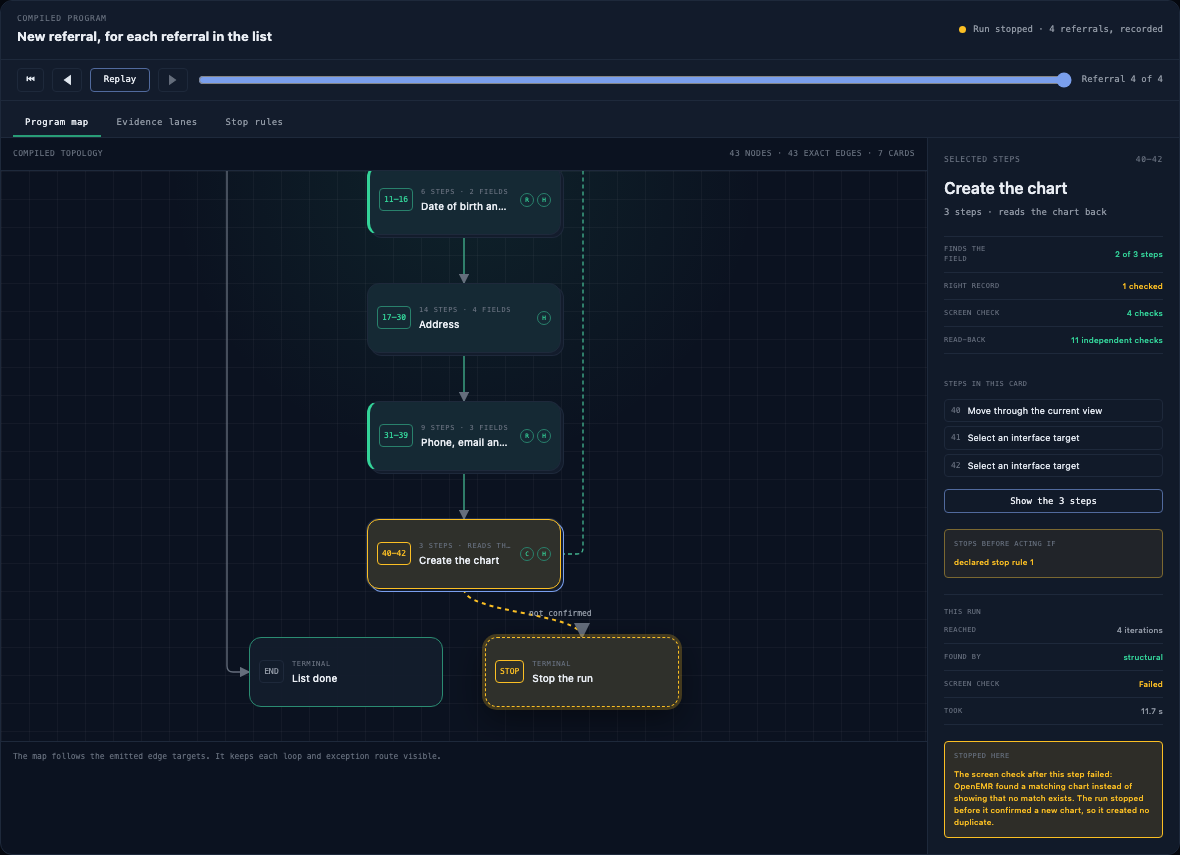
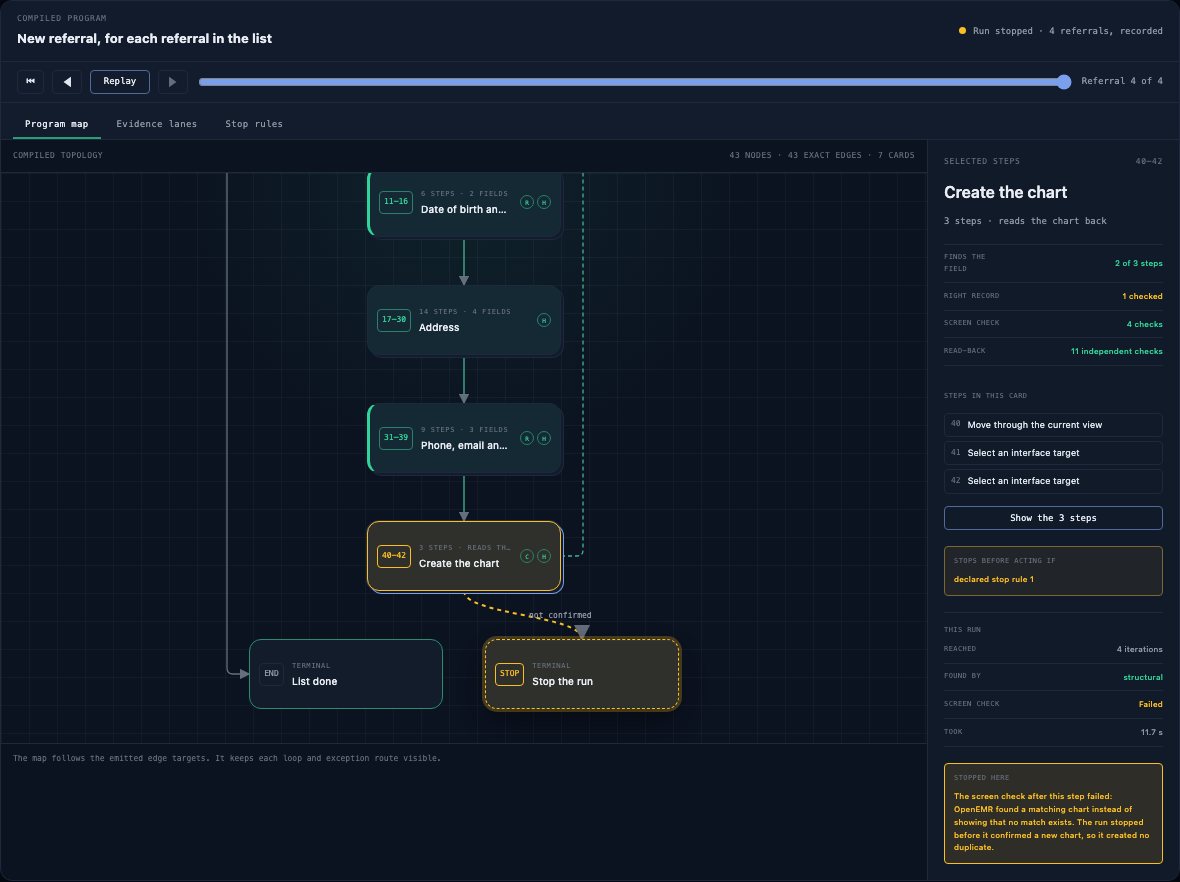
fix(program-graph): body line-height 1.6, matching Desktop, as --opg-line-height

diff --git a/packages/program-graph/src/styles.css b/packages/program-graph/src/styles.css
@@ -42,6 +42,7 @@
   --opg-fs-md: 16px;
   --opg-fw-medium: 500;
   --opg-fw-semibold: 600;
+  --opg-line-height: 1.6;
   --opg-motion-fast: 150ms;
   --opg-ease-out: cubic-bezier(0.2, 0.7, 0.2, 1);
   --opg-canvas-max-height: 570px;
@@ -77,7 +78,7 @@
   color: var(--opg-text);
   font-family: var(--opg-font-sans);
   font-size: 14px;
-  line-height: 1.5;
+  line-height: var(--opg-line-height);
 }
 .opg-root *,
 .opg-root *::before,
@@ -509,7 +510,7 @@
   font-family: var(--opg-font-sans);
   font-size: var(--opg-fs-md);
   font-weight: var(--opg-fw-semibold);
-  line-height: 1.3;
+  line-height: var(--opg-line-height);
 }
 .opg-inspector > p {
   margin: var(--opg-space-2) 0 0;
